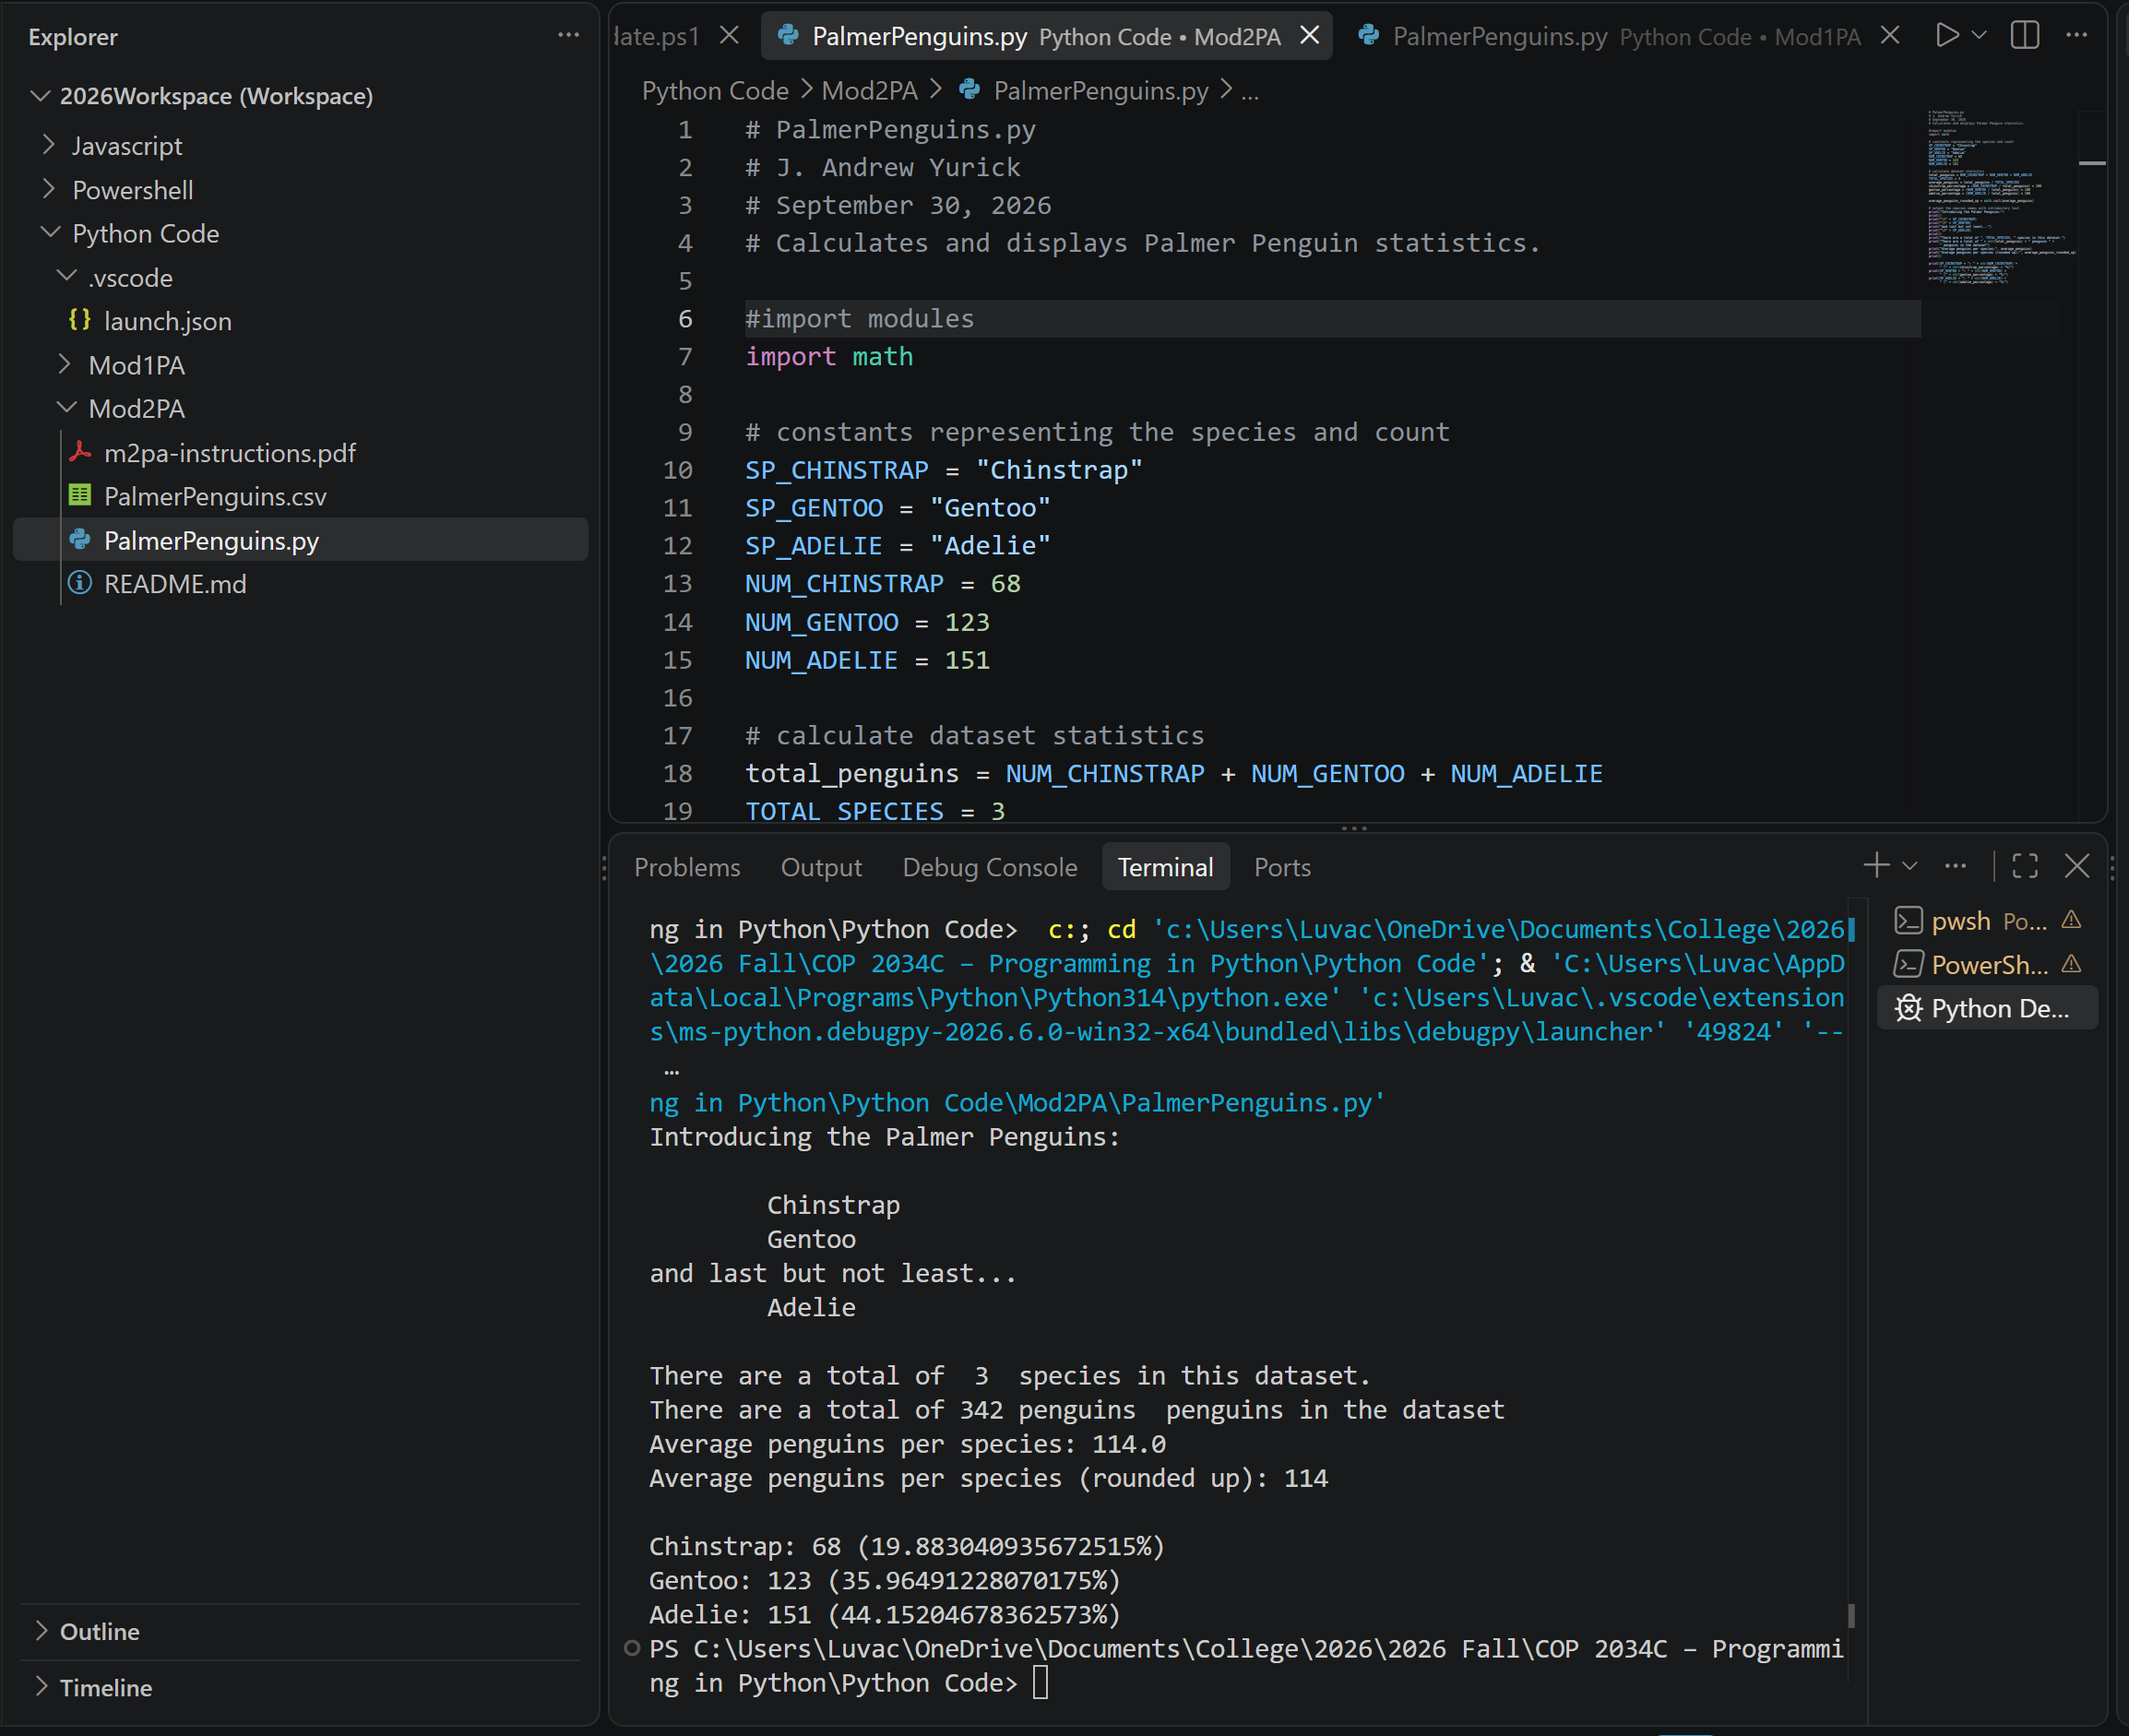
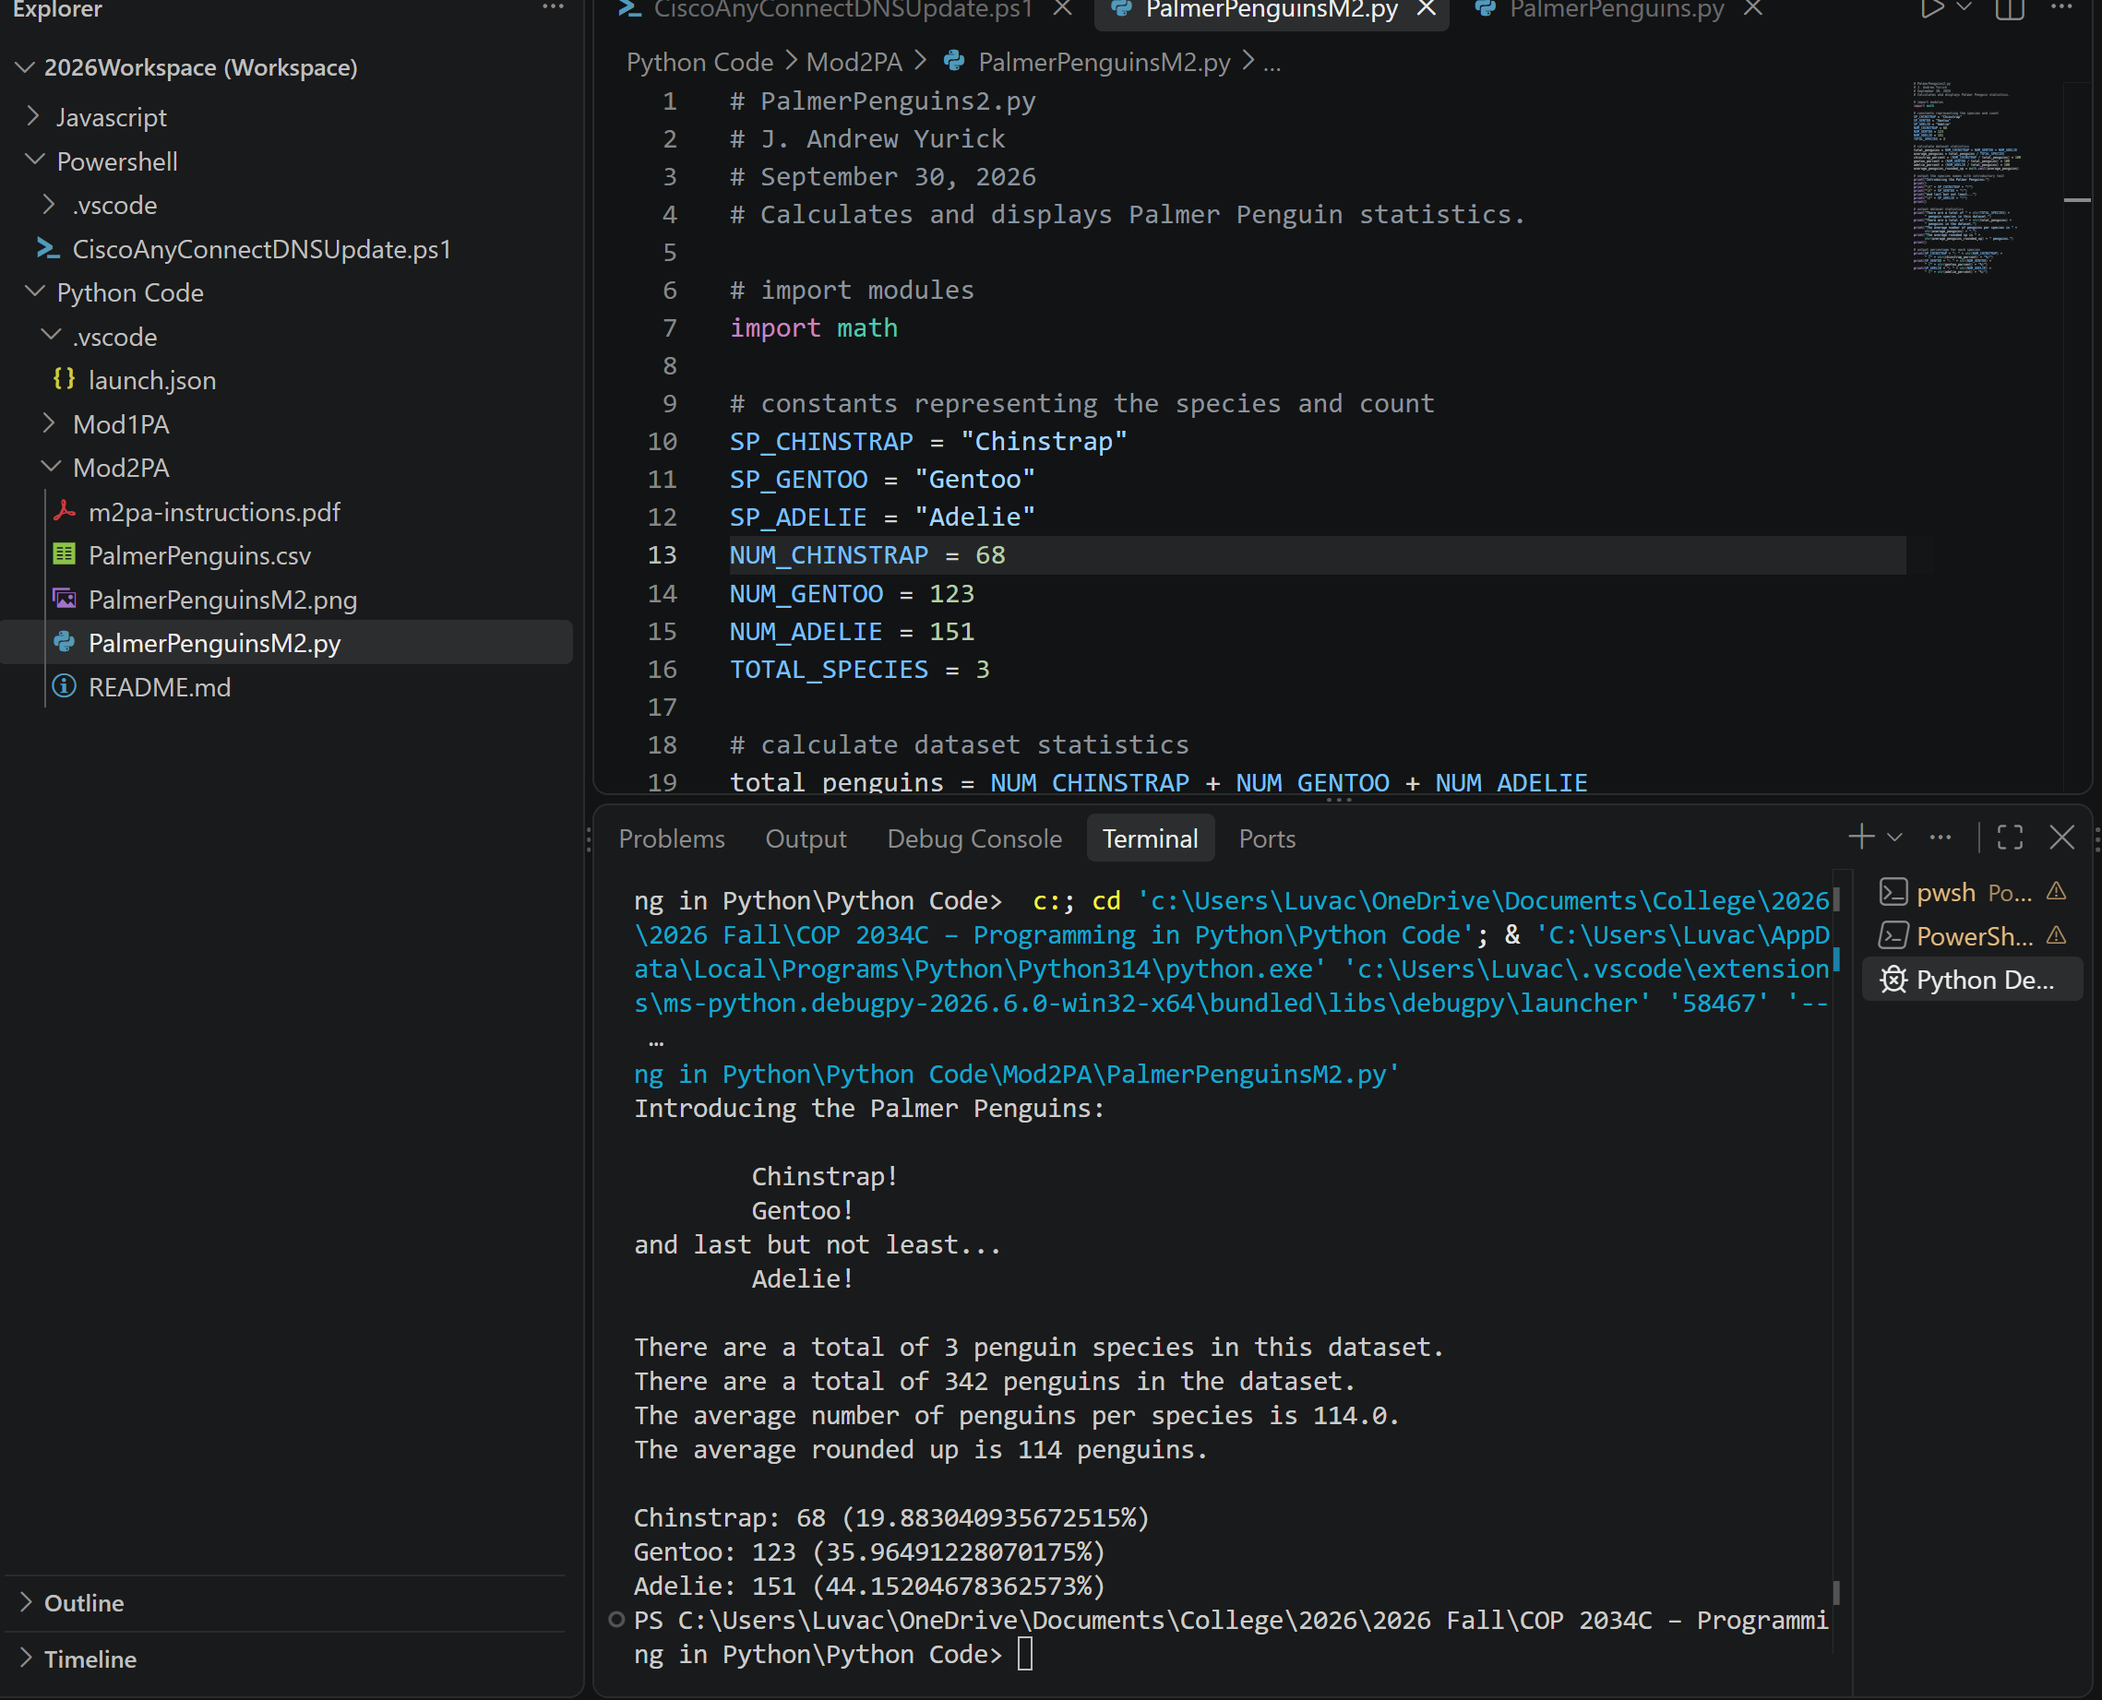
Corrected Uploaded files

diff --git a/PalmerPenguinsM2.py b/PalmerPenguinsM2.py
@@ -1,0 +1,53 @@
+# PalmerPenguinsM2.py
+# J. Andrew Yurick
+# September 30, 2026
+# Calculates and displays Palmer Penguin statistics.
+
+# import modules
+import math
+
+# constants representing the species and count
+SP_CHINSTRAP = "Chinstrap"
+SP_GENTOO = "Gentoo"
+SP_ADELIE = "Adelie"
+NUM_CHINSTRAP = 68
+NUM_GENTOO = 123
+NUM_ADELIE = 151
+TOTAL_SPECIES = 3
+
+# calculate dataset statistics
+total_penguins = NUM_CHINSTRAP + NUM_GENTOO + NUM_ADELIE
+average_penguins = total_penguins / TOTAL_SPECIES
+chinstrap_percent = (NUM_CHINSTRAP / total_penguins) * 100
+gentoo_percent = (NUM_GENTOO / total_penguins) * 100
+adelie_percent = (NUM_ADELIE / total_penguins) * 100
+average_penguins_rounded_up = math.ceil(average_penguins)
+
+# output the species names with introductory text
+print("Introducing the Palmer Penguins:")
+print()
+print("\t" + SP_CHINSTRAP + "!")
+print("\t" + SP_GENTOO + "!")
+print("and last but not least...")
+print("\t" + SP_ADELIE + "!")
+print()
+
+# output dataset statistics
+print("There are a total of " + str(TOTAL_SPECIES) +
+      " penguin species in this dataset.")
+print("There are a total of " + str(total_penguins) +
+      " penguins in the dataset.")
+print("The average number of penguins per species is " +
+      str(average_penguins) + ".")
+print("The average rounded up is " +
+      str(average_penguins_rounded_up) + " penguins.")
+print()
+
+# output count and percentage for each species
+print(SP_CHINSTRAP + ": " + str(NUM_CHINSTRAP) + 
+      " (" + str(chinstrap_percent) + "%)") 
+print(SP_GENTOO + ": " + str(NUM_GENTOO) + 
+      " (" + str(gentoo_percent) + "%)") 
+print(SP_ADELIE + ": " + str(NUM_ADELIE) + 
+      " (" + str(adelie_percent) + "%)") 
+
